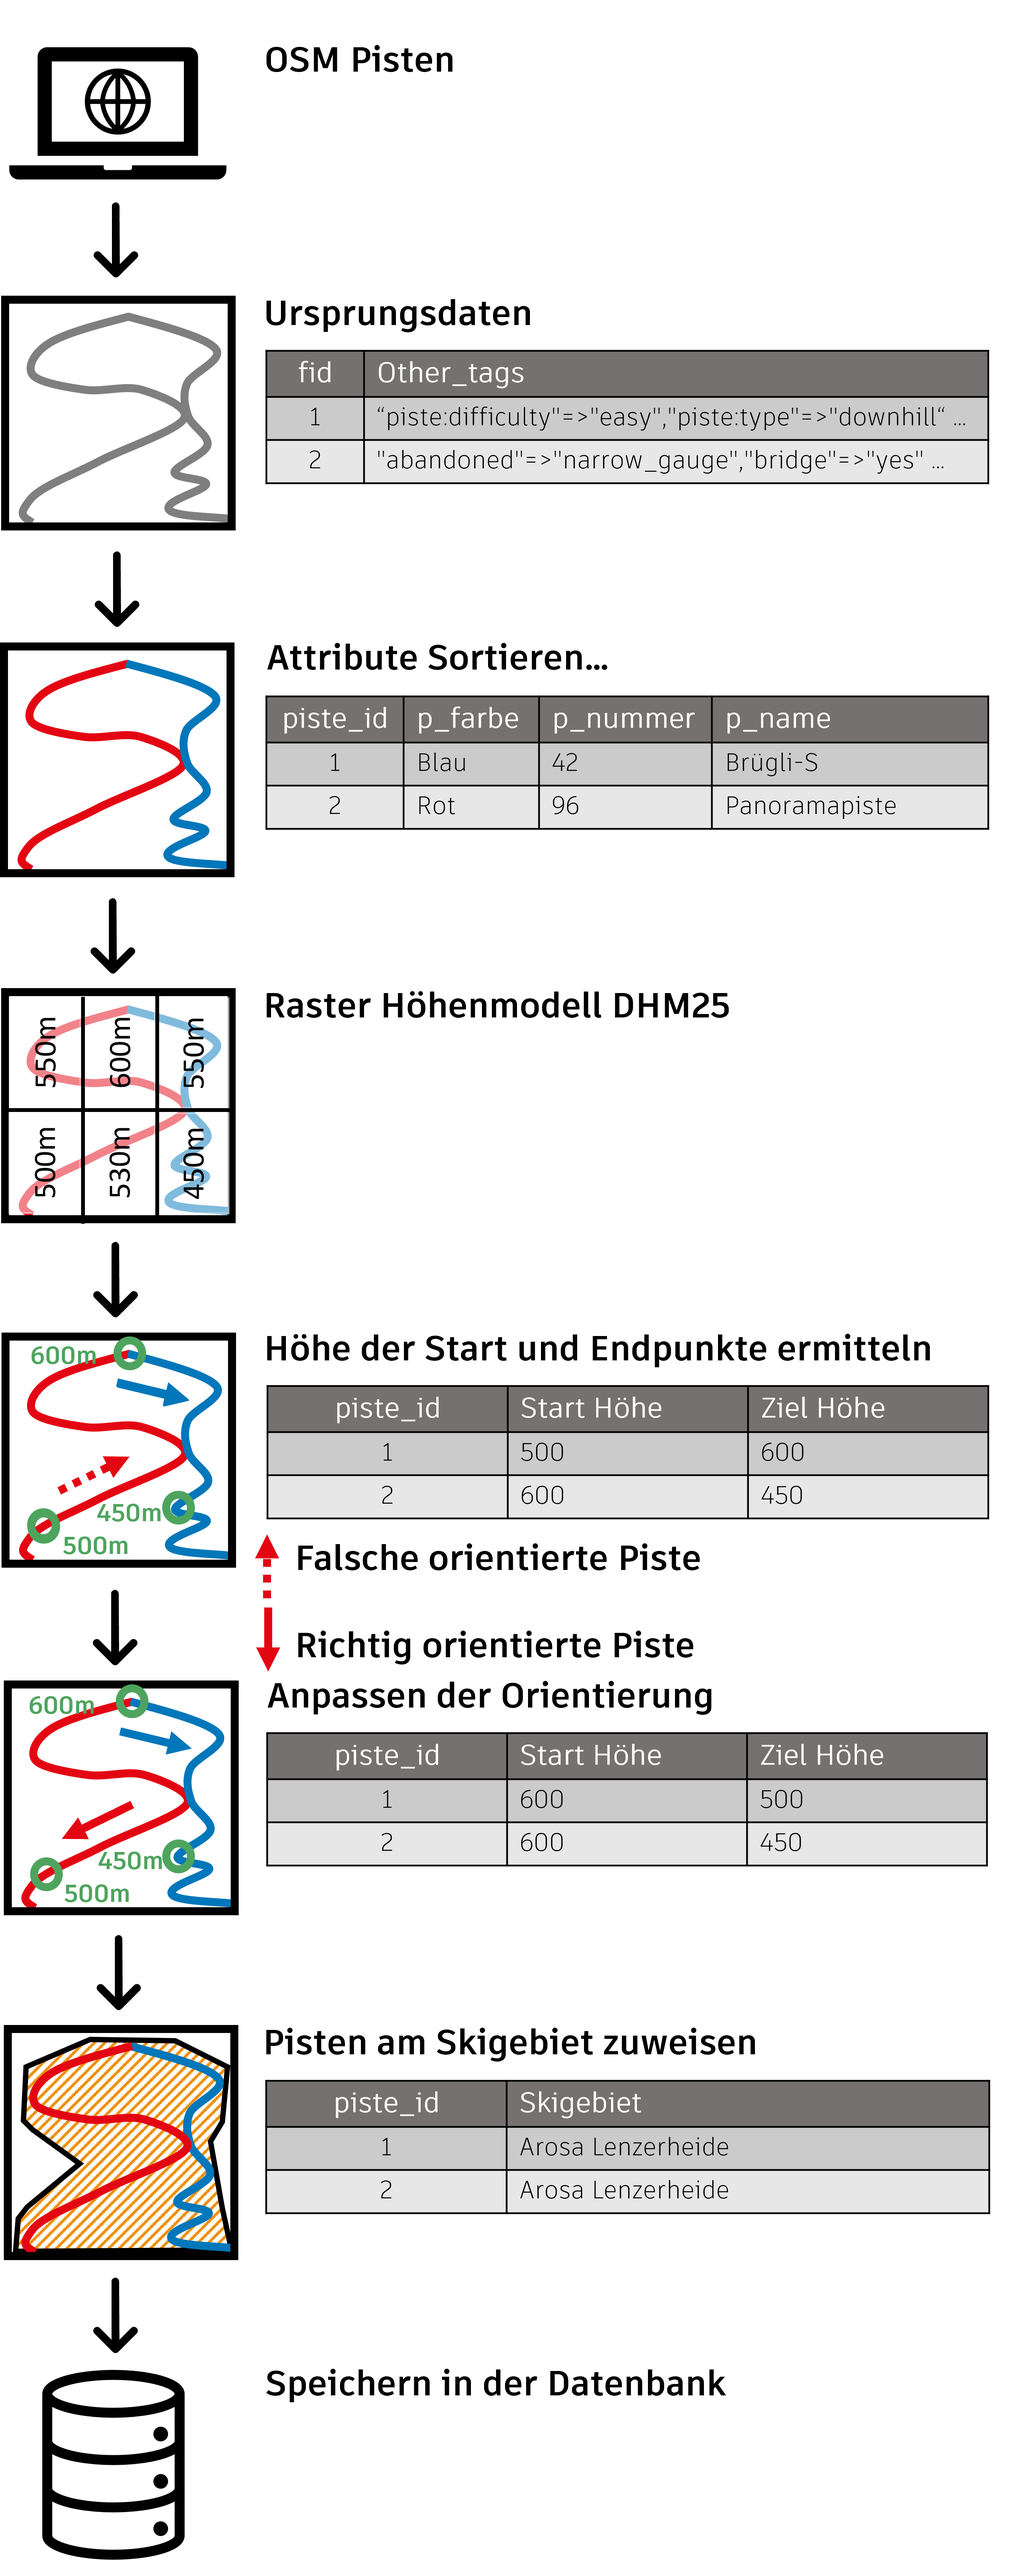
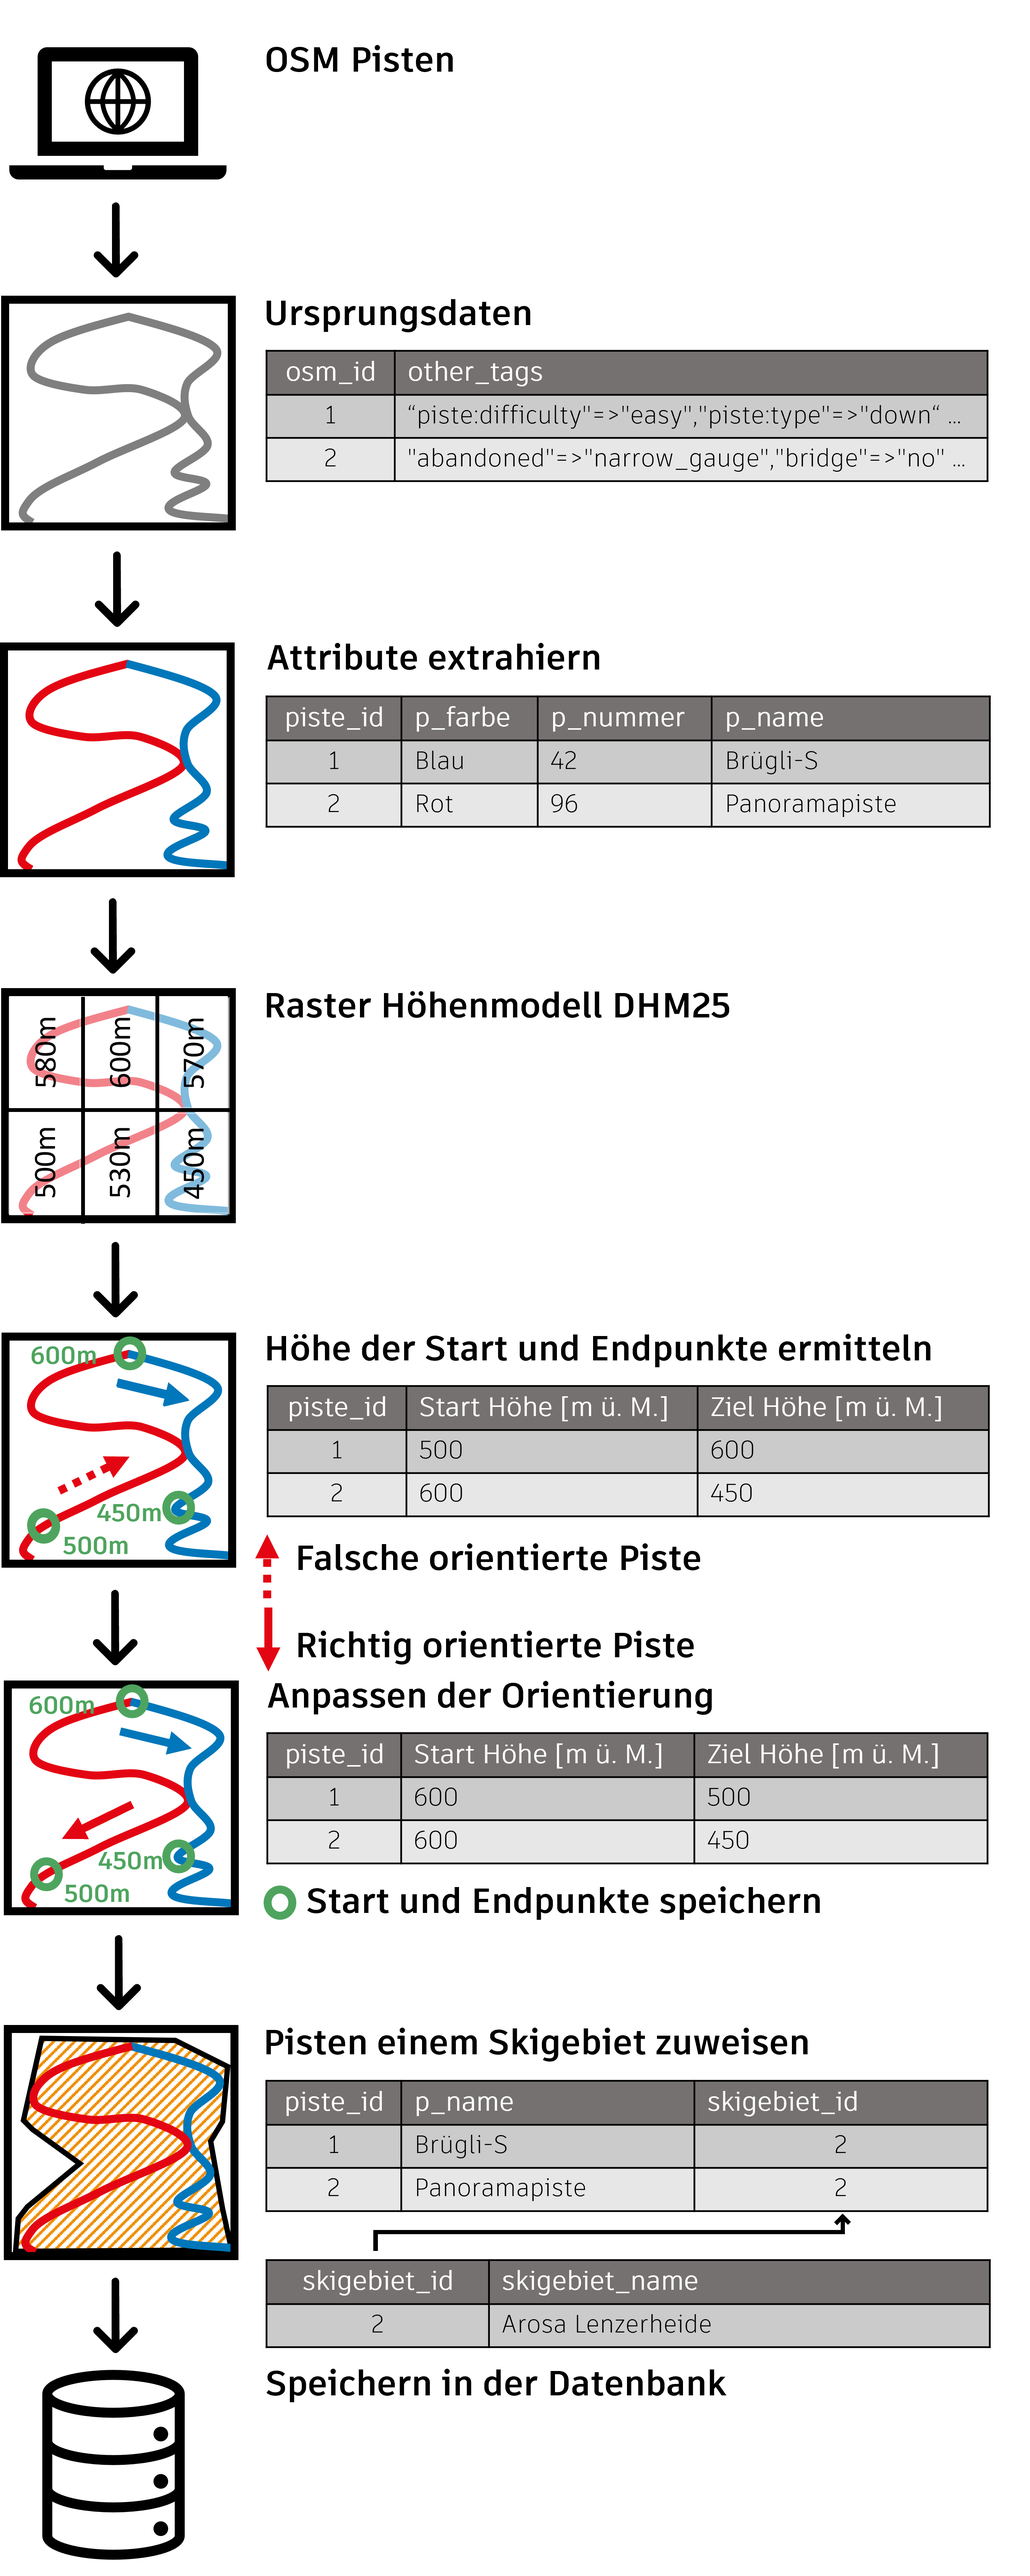
Anpassung Grafik vorprozessierung_pisten

diff --git a/docs/Feedback_Alpine_Ace.md b/docs/Feedback_Alpine_Ace.md
@@ -37,7 +37,7 @@ Code Organisation:
 
 **Allgemein**: Gute Übersicht zum Projekt, es fehlt eine grafische Übersicht der implementierten und geplanten Features. Einleitung direkt auf das Ziel eingehen, der Projektkontext kann später erklärt werden, der hat nicht die Priorität, zuerst genannt zu werden. #REVIEW gibt es PP noch?
 
-- Menu falls zeitlich noch möglich in die Sidebar einfügen #TODO zeit hat nicht gereicht
+- Menu falls zeitlich noch möglich in die Sidebar einfügen #TODO Zeit hat nicht gereicht
 - Reflektion einführen #TODO
 - Literatur und Daten/Library Übersicht am Ende als Quellenverzeichnis oder geeigneter Stelle einfügen. #TODO
 - zum Teil sehr detailliert #erledigt, Wir hoffen, dass man es dank detailliertem Beschrieb gut verstehen kann
@@ -57,9 +57,9 @@ Funktionen
 - Ist beim Lawinen-Bulletin die Region der Lawinengefahr immer auf den Kanton bezogen? #erledigt Lawinenbulletin im Dashboard bezieht sich auf das aktuelle Skigebiet. In diesem Fall der Lenzerheide. Die Kantone dienen nur zur Orientierung.
 
 - Video - Einbindung Höhe vergrössern, ist doch sehr klein. Die Video lassen sich zum Teil nur mit mehrfachem probieren abspielen. #erledigt, alle Videos getestet (Webseite neu Laden mit ctrl + F5 ohne Cache)
-- Bei der Prozessierung z.B. der Pisten wären Grafiken/Workflow mit Beispielen noch hilfreich für das Verständnis der Vorprozessierung #TODO
+- Bei der Prozessierung z.B. der Pisten wären Grafiken/Workflow mit Beispielen noch hilfreich für das Verständnis der Vorprozessierung #erledigt
 - Methoden z.B. Dijkstra PostGIS Dokumentation und Paper als Literatur hinzufügen. #erledigt, Ich bin mir nicht sicher ob dies korrekt ist.
-- Datenaufbereitung, sowie Routing mit einem Workflow/Grafik Beispiel ergänzen. #TODO
+- Datenaufbereitung, sowie Routing mit einem Workflow/Grafik Beispiel ergänzen. #erledigt
 
 Incoming Features
 
